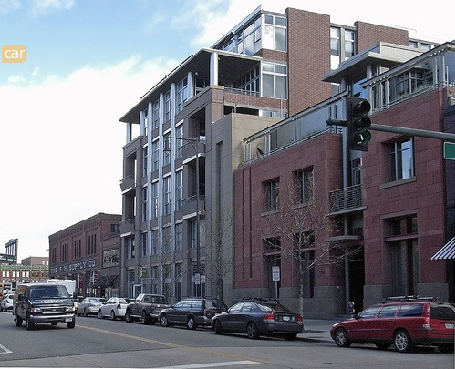
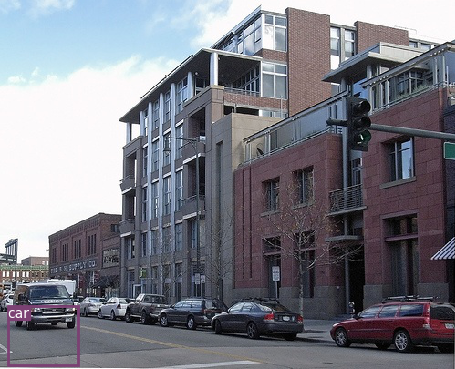
data pipeline works without crashes but is still buggy

Changed region(s): [[0.0, 0.8049, 0.1846, 1.0], [0.0, 0.1192, 0.0615, 0.1789]]

diff --git a/server/src/views.py b/server/src/views.py
@@ -30,4 +30,4 @@ def data(request):
     image = Image.open(io.BytesIO(data))
     processedimage = detect.detectimage(image)
     print(processedimage)
-    return HttpResponse(image_to_byte_array(image))
+    return HttpResponse(image_to_byte_array(processedimage))
